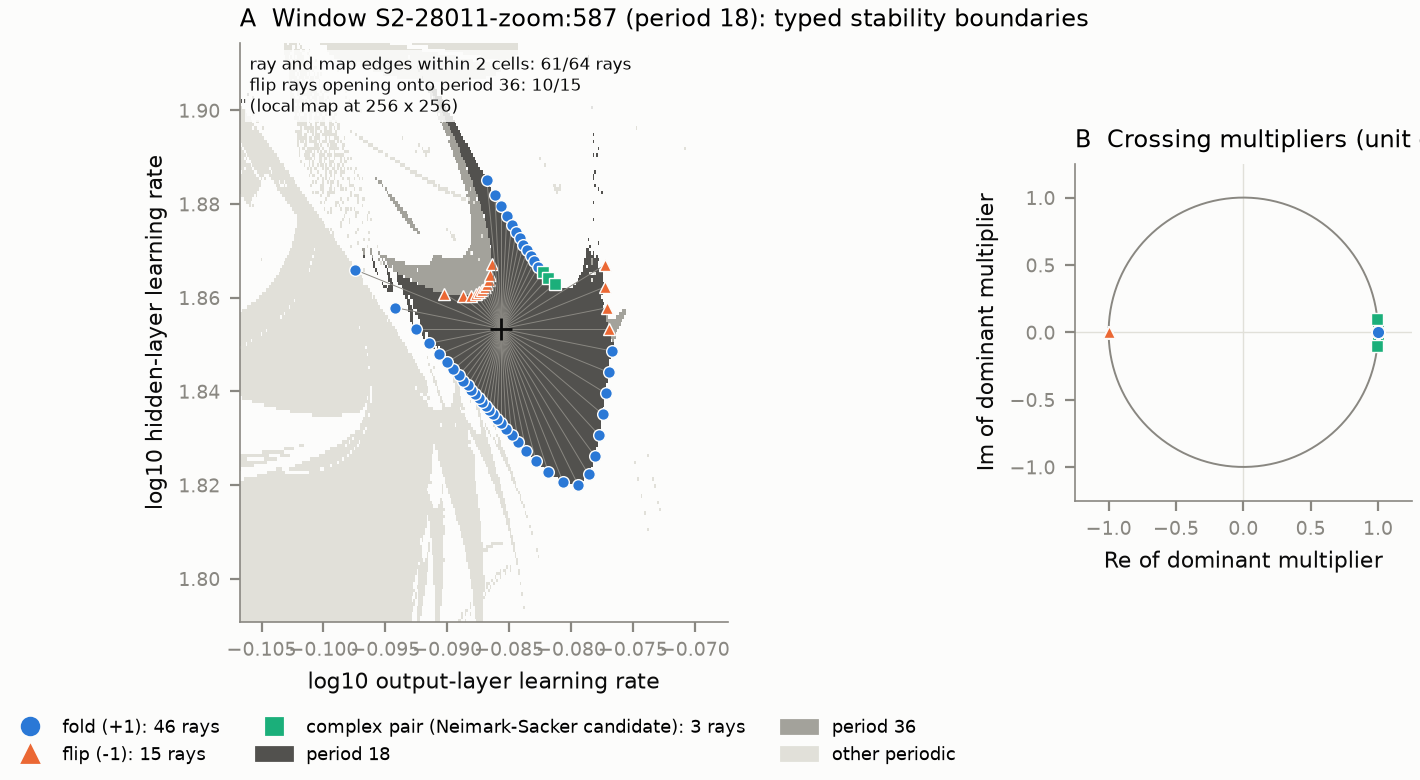
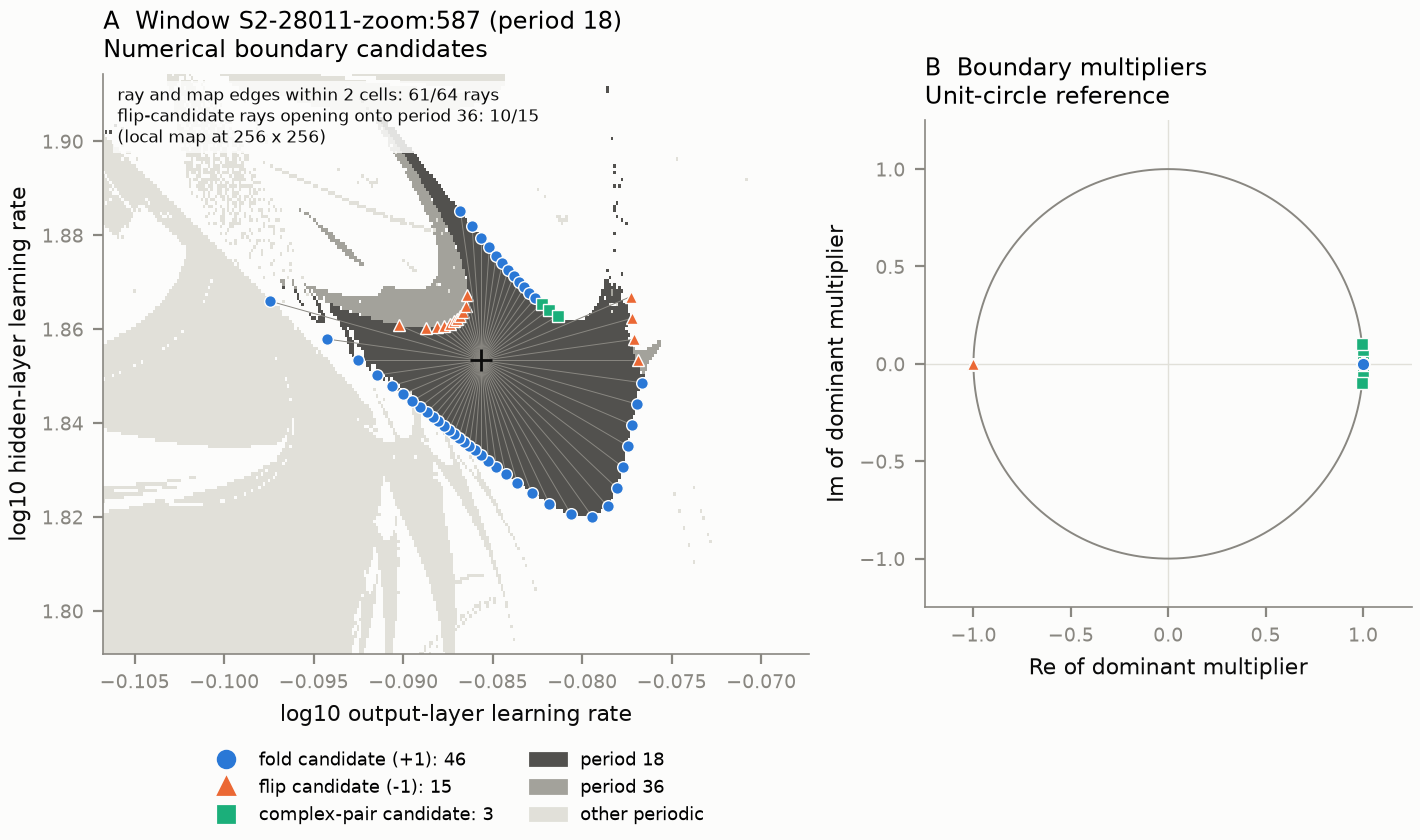
Repair anatomy figure layout and preserve its numerical evidence

diff --git a/paper/gd-route/main.tex b/paper/gd-route/main.tex
@@ -649,7 +649,7 @@ and over the three deepest levels the width scales with exponent \xAncWidthSlope
 \begin{figure}[htbp]
 \centering
 \includegraphics[width=\linewidth]{f4_window_anatomy.pdf}
-\caption{\textbf{The period-18 window of S2-28011 has a body bounded by numerical fold candidates, with flip candidates opening onto
+\caption{\textbf{The period-18 window has numerical fold and flip boundary candidates, with neighboring
 period-36 bands.} A: local map from the shared initial parameters with the window's orbit continued along 64
 rays; markers show where and how it loses stability. B: crossing multipliers on the unit circle. This window was
 selected as the clearest example and is one of only \nDraftShrimp{} meeting the draft shrimp criteria; it is not

diff --git a/paper/gd-route/README.md b/paper/gd-route/README.md
@@ -1,8 +1,10 @@
 # Gradient-descent route manuscript (working draft)
 
 This directory holds the manuscript on the dynamics inside learning-rate planes
-of full-batch gradient descent: numerically validated periodic windows inside chaotic
-training, and an exploratory quasi-periodic route (Neimark-Sacker bifurcation of
+of full-batch gradient descent. Its selected exact-real certificates prove primitive
+period 10 in 13 parameters and period 2 in 72 parameters, with full-state local
+attraction at fixed layer-specific rates. These are internal project results. The
+numerical study also reports periodic windows inside chaotic training and an exploratory quasi-periodic route (Neimark-Sacker bifurcation of
 the edge-of-stability 2-cycle, invariant circles, phase-locked windows). The
 draft is private; framing, authorship, license and release are the human
 author's decisions.
